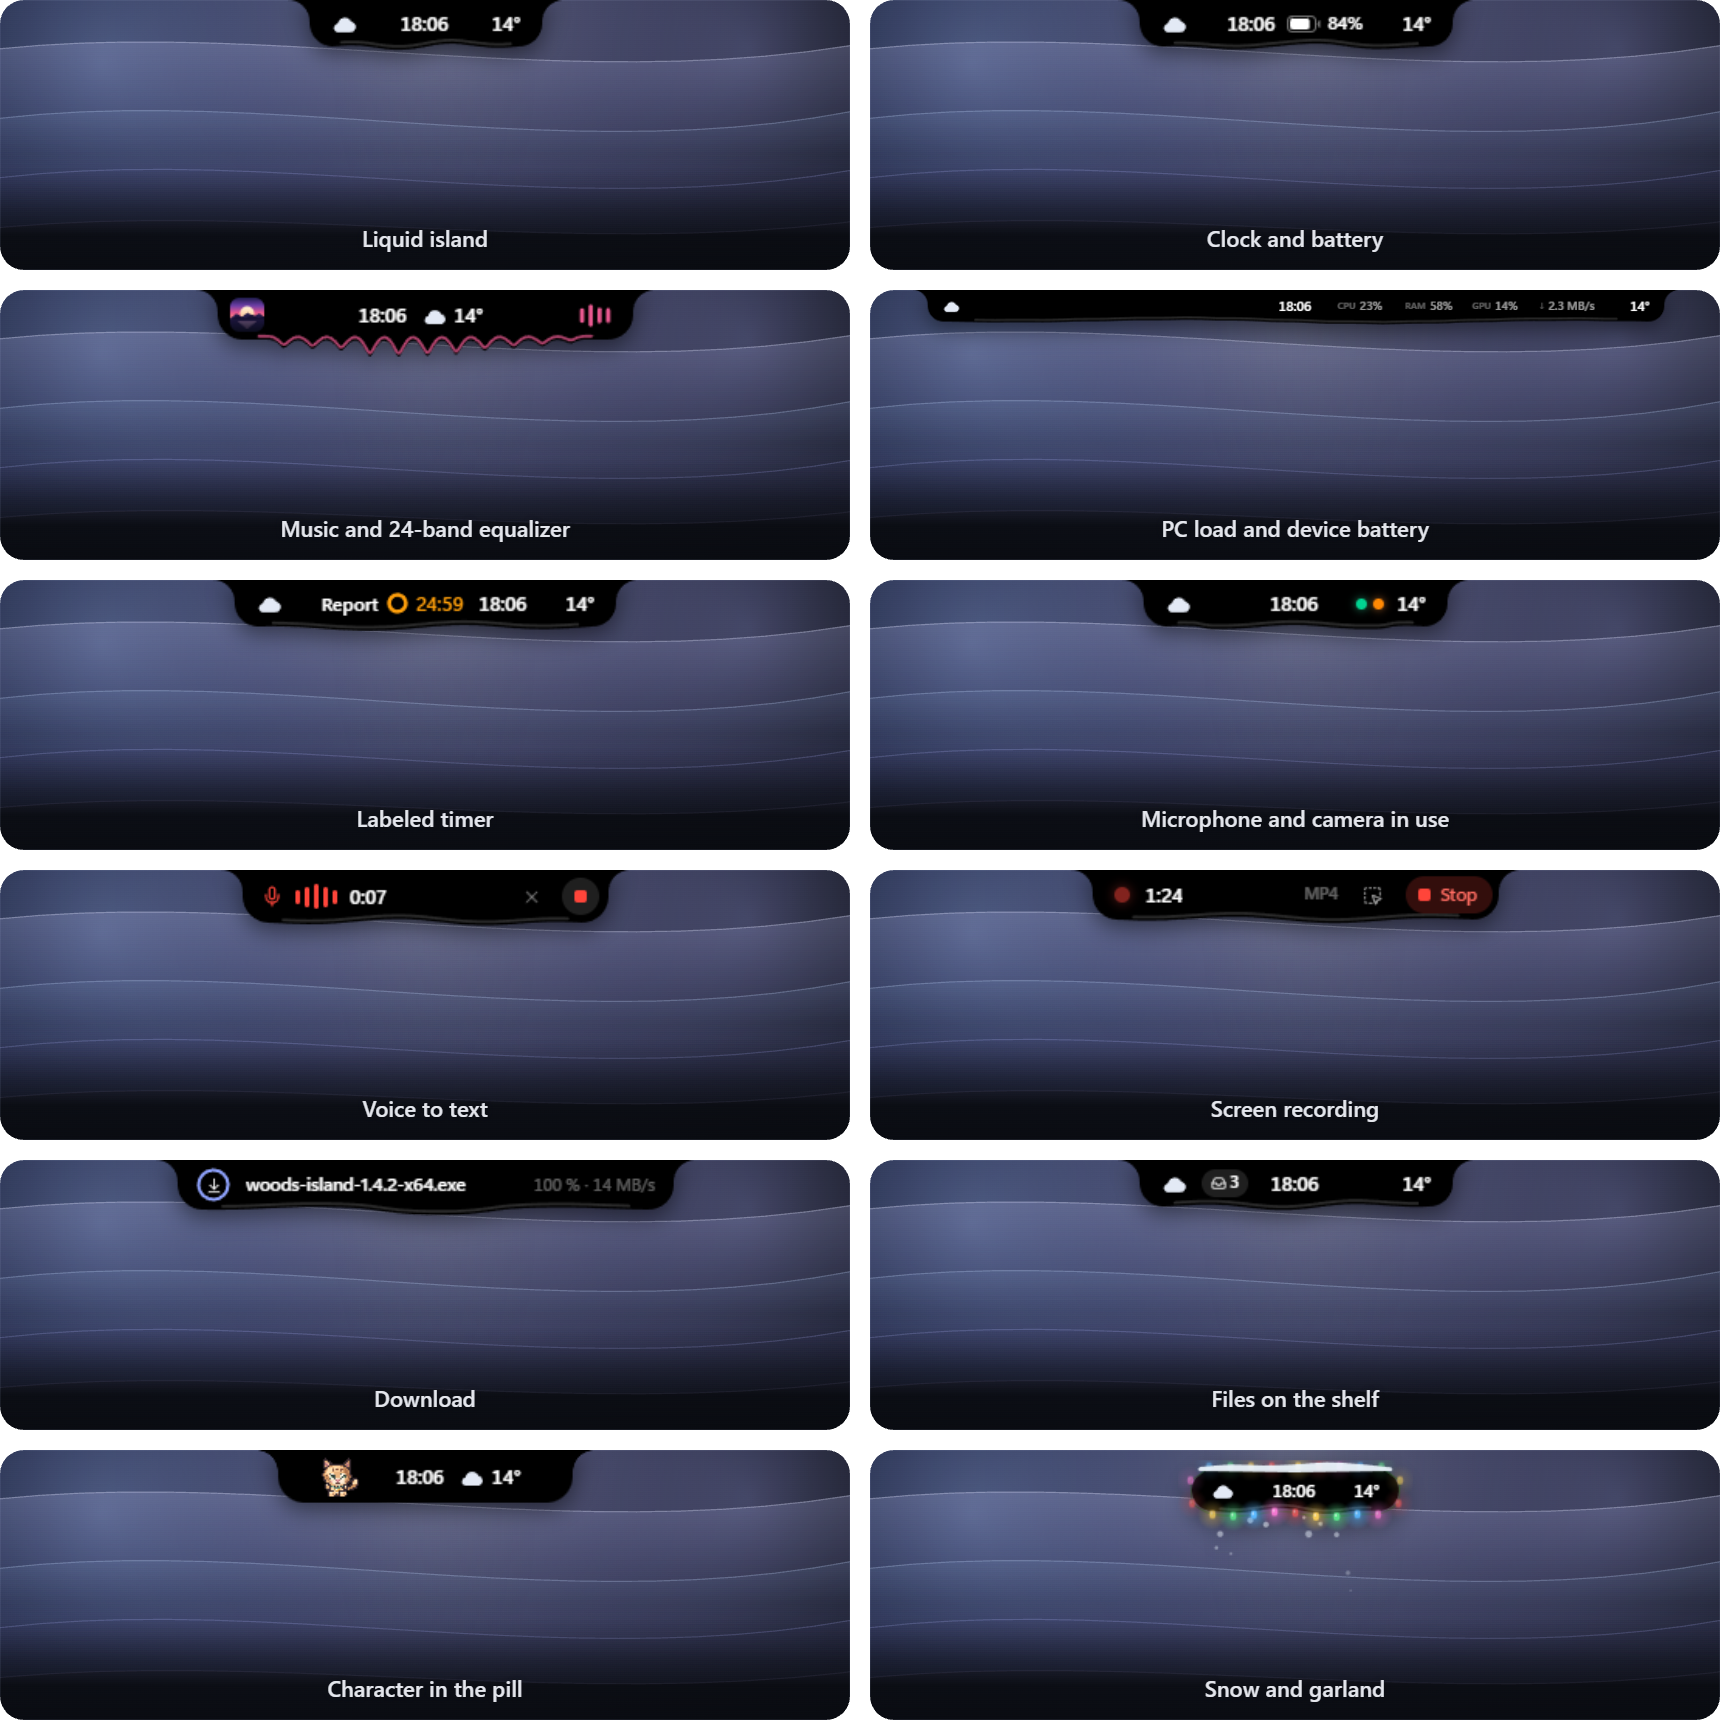
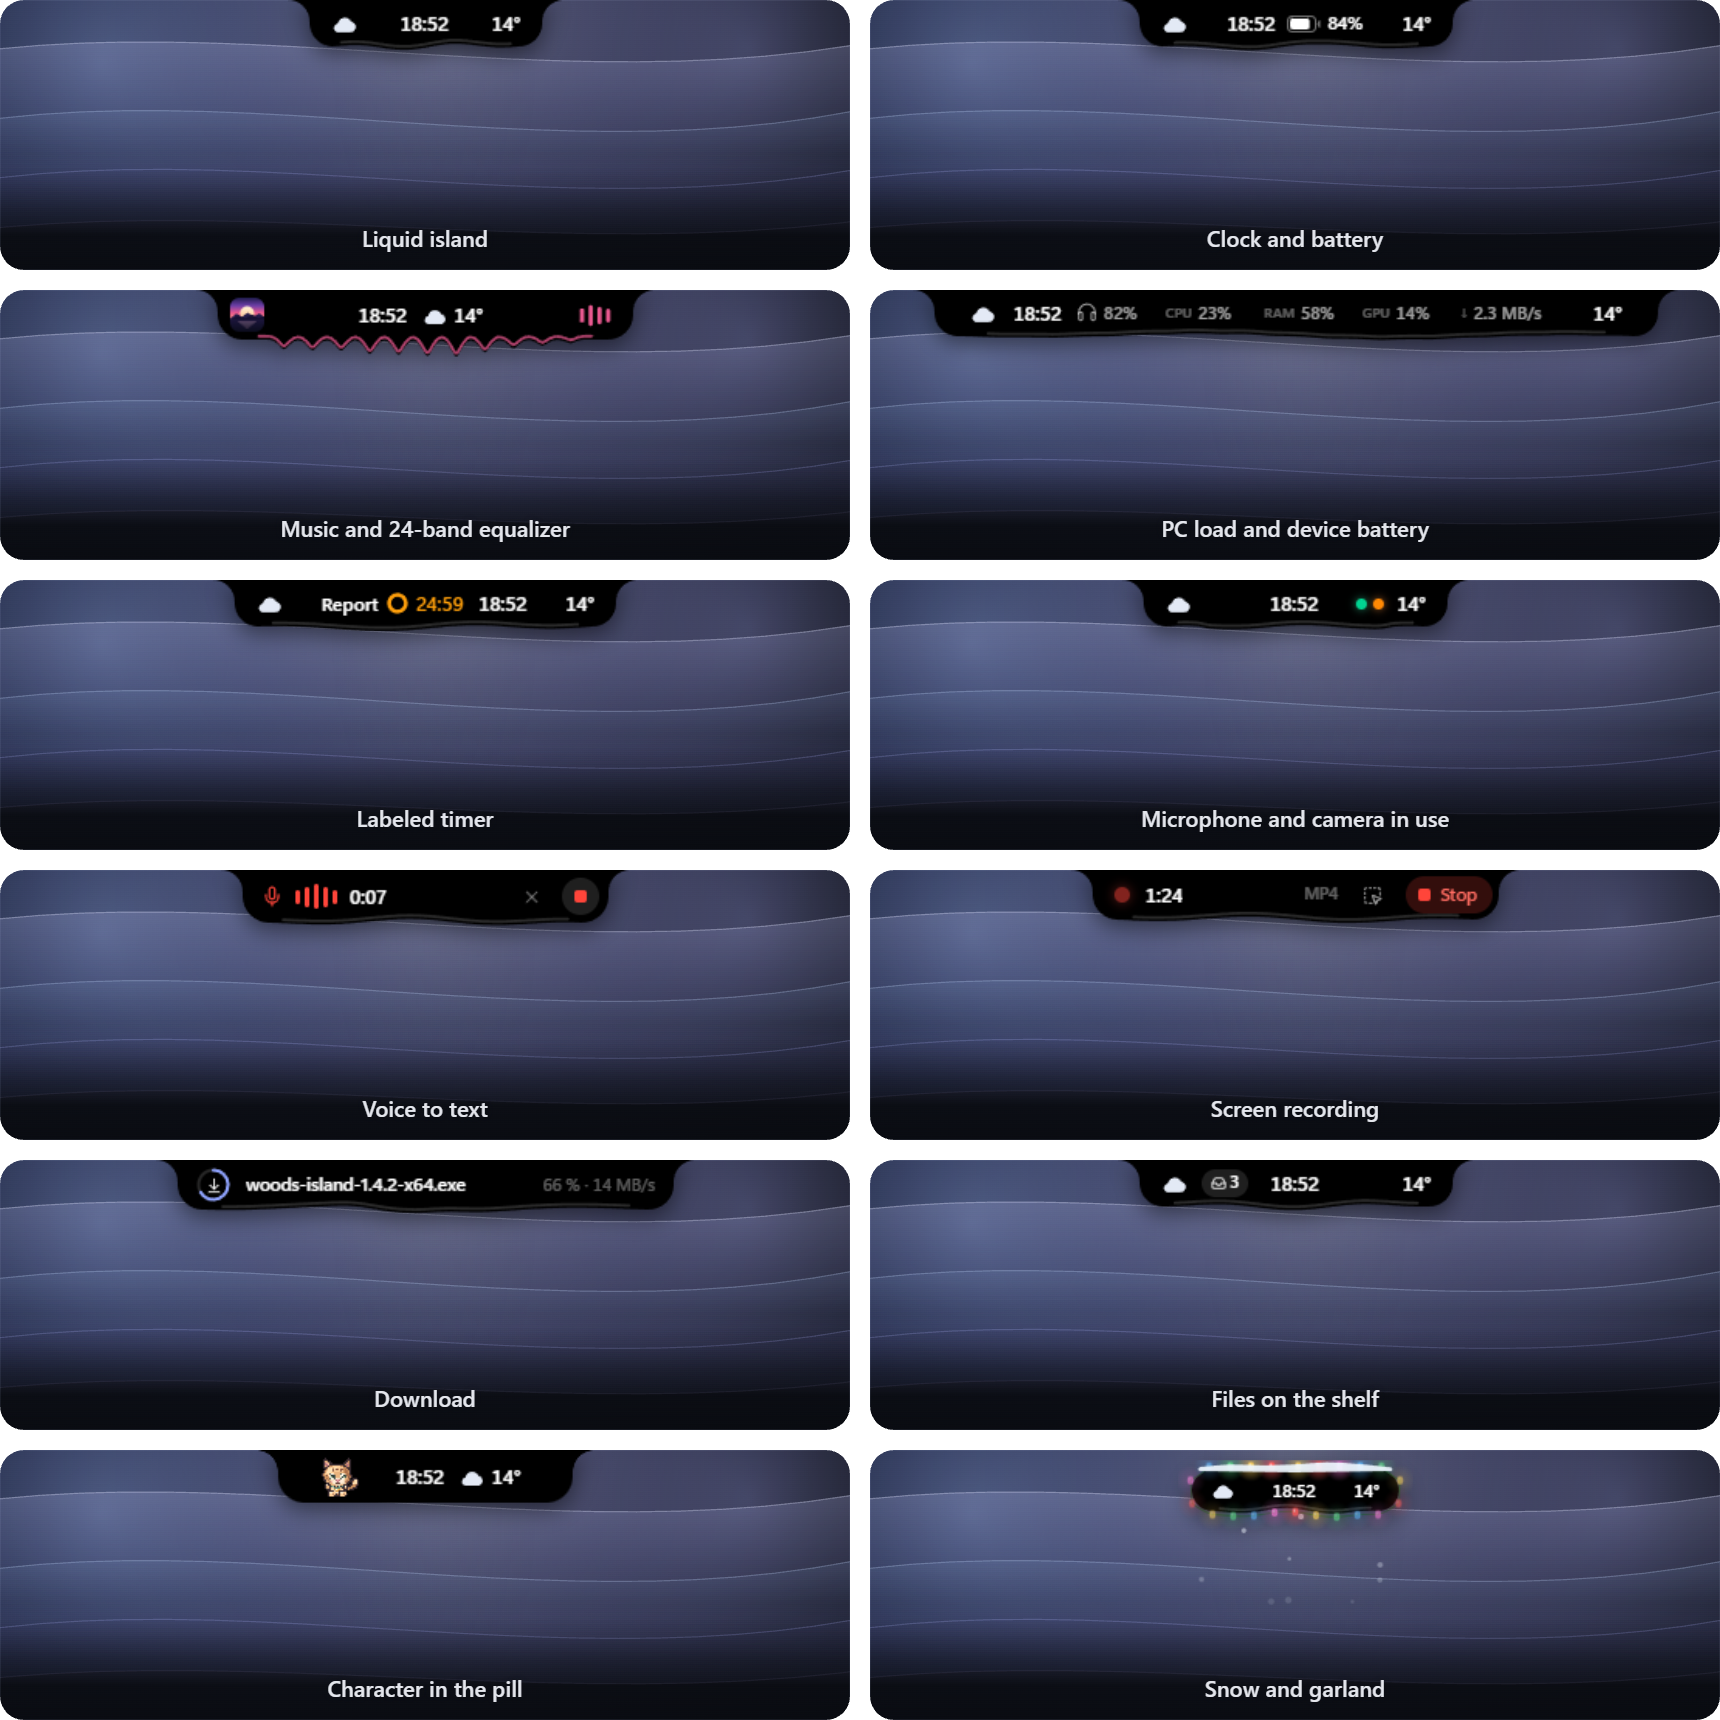
Fix folded pill compact row spacing, tab fade scale and live-pills showcase

Changed region(s): [[0.5547, 0.1541, 0.9552, 0.2157], [0.7087, 0.832, 0.8012, 0.8936], [0.7087, 0.0, 0.7395, 0.0308]]

diff --git a/runtime/compat/home.js b/runtime/compat/home.js
@@ -2123,6 +2123,7 @@ function pm() {
         (e.settings?.agentsStatus !== !1 && e.agents.length > 0) ||
         (e.downloads.length > 0 && e.settings?.downloadsInPill === `badge`) || compactIndicatorWidth(e.settings,e.peripherals)>0,
     ),
+    hasCompact = useIslandStore((e) => compactIndicatorWidth(e.settings, e.peripherals) > 0),
     u = useIslandStore((e) => (e.settings?.moduleShelf === !1 ? 0 : e.shelf.length)),
     p = lm() && (0, jsxRuntime.jsx)(cm, {}),
     m = o && (0, jsxRuntime.jsx)($p, {}),
@@ -2167,6 +2168,35 @@ function pm() {
             className: `flex items-center gap-2 justify-self-end`,
             children: [v, e.right.map(t)],
           }),
+        ],
+      });
+    }
+    if (hasCompact) {
+      return (0, jsxRuntime.jsxs)(`div`, {
+        className: `flex h-full items-center justify-center gap-2.5 pr-3.5 pl-3`,
+        children: [
+          (a || g) &&
+            (0, jsxRuntime.jsxs)(`span`, {
+              className: `flex shrink-0 items-center gap-2`,
+              children: [a && (0, jsxRuntime.jsx)(Jp, { sky: a.sky, night: a.night, size: 20, still: !0 }), g],
+            }),
+          (p || m || h) &&
+            (0, jsxRuntime.jsxs)(`span`, {
+              className: `flex shrink-0 items-center gap-2`,
+              children: [p, m, h],
+            }),
+          (v || a) &&
+            (0, jsxRuntime.jsxs)(`span`, {
+              className: `flex shrink-0 items-center gap-2`,
+              children: [
+                v,
+                a &&
+                  (0, jsxRuntime.jsx)(`span`, {
+                    className: `tabular text-[12.5px] font-semibold text-ink`,
+                    children: a.temp,
+                  }),
+              ],
+            }),
         ],
       });
     }

diff --git a/runtime/island/sizing.ts b/runtime/island/sizing.ts
@@ -95,7 +95,15 @@ export function idleSize(options: WidgetSizing): Size {
     return [occupied > 0 ? 8 + (options.slot ?? 60) + 12 + occupied : rest, options.big ? 44 : SLOT[1]];
   }
   const center = append(append(timer, clock), options.battery ? BATTERY : 0);
-  const side = Math.max(append(options.weather ? 20 : 0, input), append(options.weather ? 30 : 0, status));
+  const left = append(options.weather ? 20 : 0, input);
+  const right = append(options.weather ? 30 : 0, status);
+  if ((options.compact ?? 0) > 0) {
+    const row = [left, center, right]
+      .filter(width => width > 0)
+      .reduce((sum, width, index) => sum + (index > 0 ? GAP : 0) + width, 0);
+    return [Math.max(IDLE[0], 26 + row), IDLE[1]];
+  }
+  const side = Math.max(left, right);
   const sides = side > 0 ? 2 * (side + (center > 0 ? GAP : 0)) : 0;
   return [Math.max(IDLE[0], 26 + center + sides), IDLE[1]];
 }

diff --git a/runtime/compat/island.js b/runtime/compat/island.js
@@ -10485,13 +10485,12 @@ var Bj = 700,
   Vj = { type: `spring`, stiffness: 420, damping: 34, mass: 0.9 },
   Hj = { type: `spring`, stiffness: 300, damping: 34, mass: 0.9 },
   Uj = {
-    initial: { opacity: 0, scale: 0.985 },
+    initial: { opacity: 0 },
     animate: {
       opacity: 1,
-      scale: 1,
       transition: { delay: 0.03, duration: 0.18, ease: [0.2, 0.8, 0.2, 1] },
     },
-    exit: { opacity: 0, scale: 0.99, transition: { duration: 0.08 } },
+    exit: { opacity: 0, transition: { duration: 0.08 } },
   };
 function useIslandGeometry(e) {
   let t = useIslandStore((e) => e.palette),
